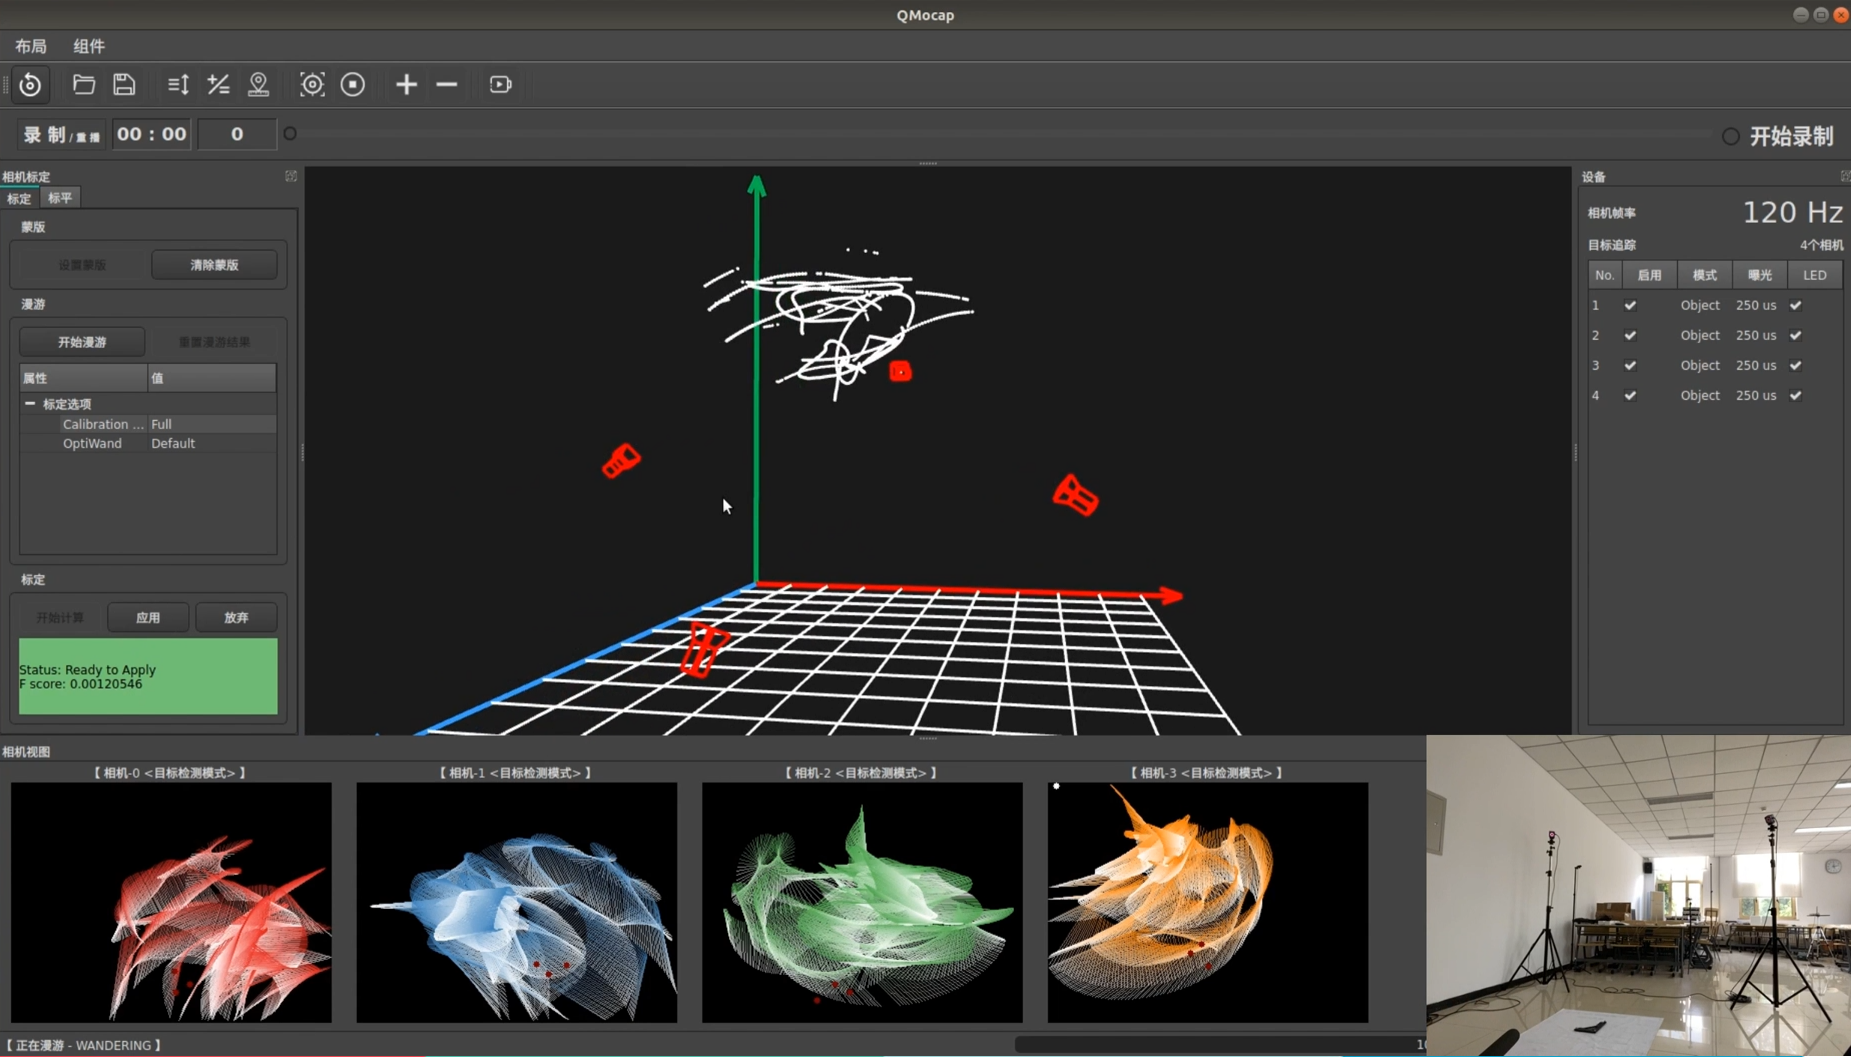
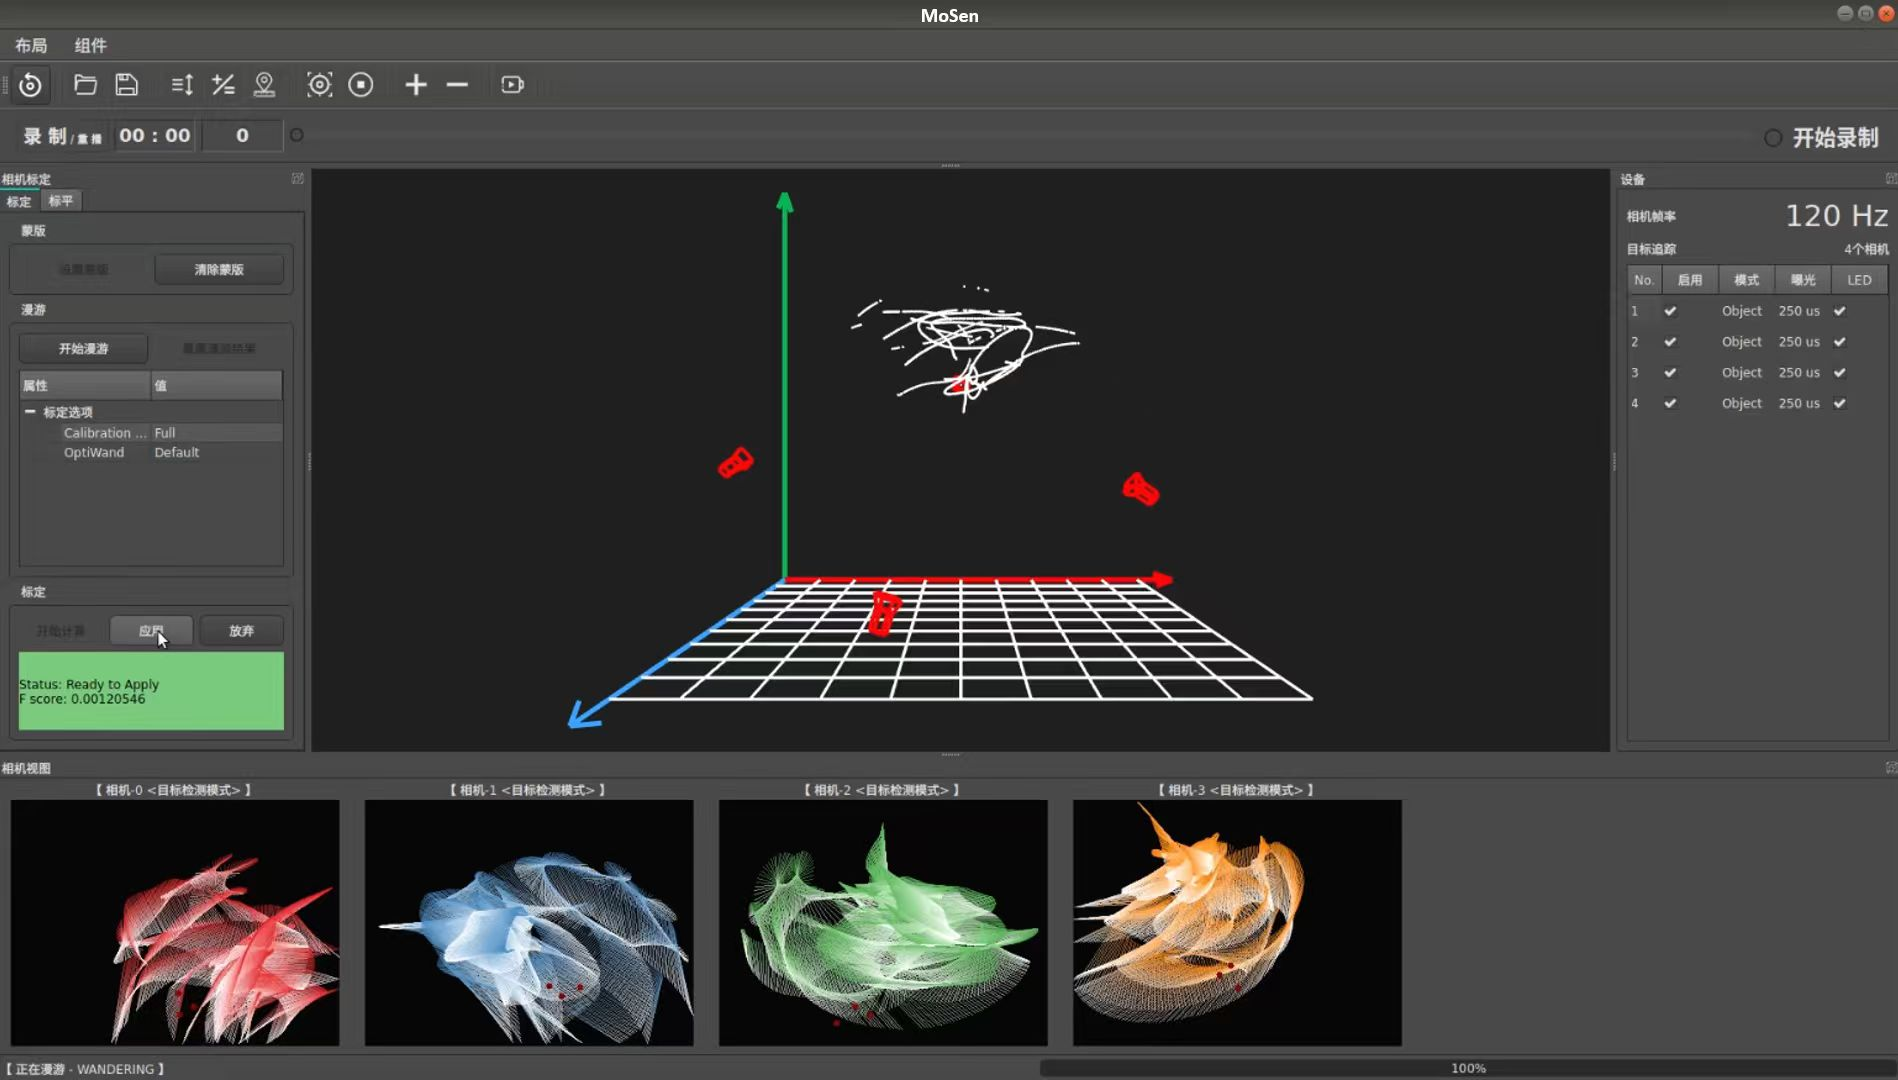
update img

diff --git a/index.html b/index.html
@@ -284,8 +284,7 @@
         <section id="contact">
             <h2>MoCap System</h2>
             <p>
-                This study is powered by our self-developed motion capture system (<$1,000 per camera)
-                with sub-millimeter 3D accuracy.
+                This study is powered by our self-developed motion capture system —- MoSen.
             </p>
 
             <!-- 三张图并排 -->
